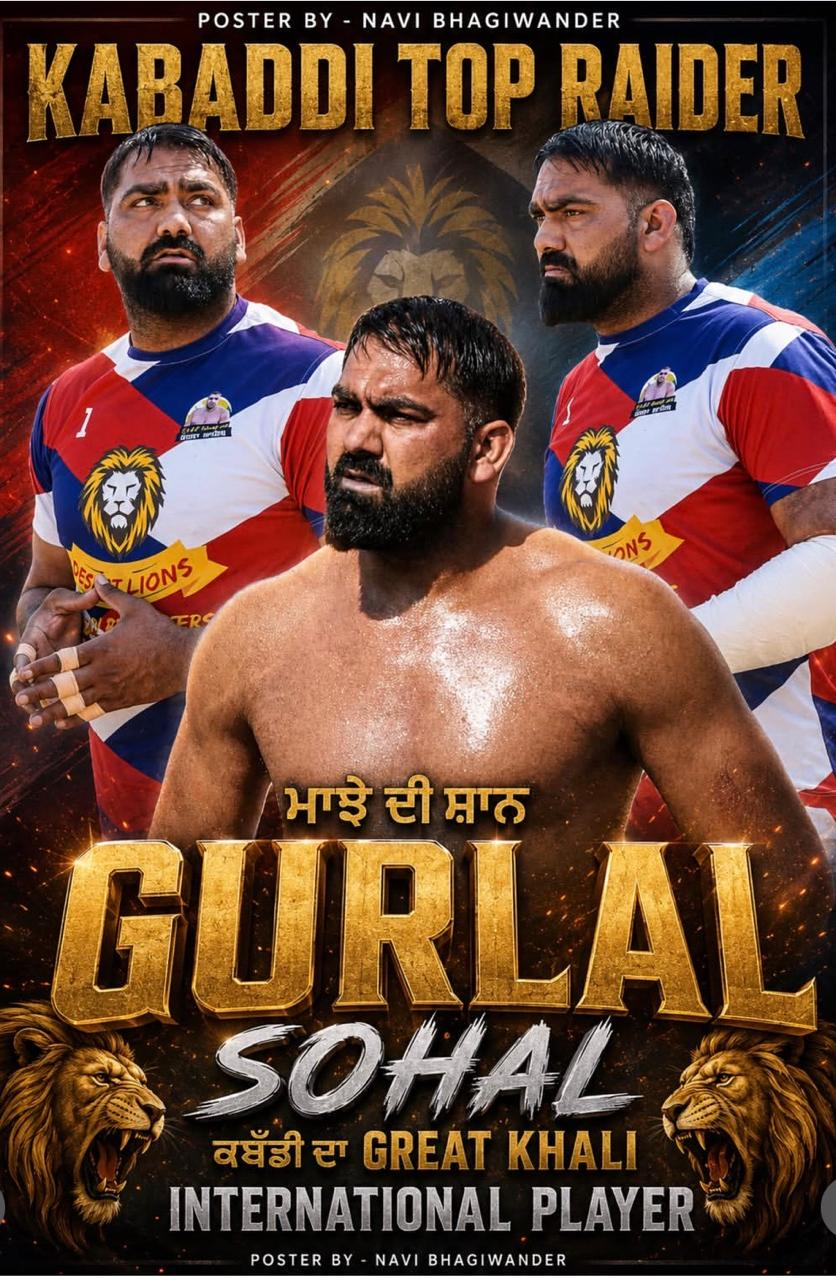
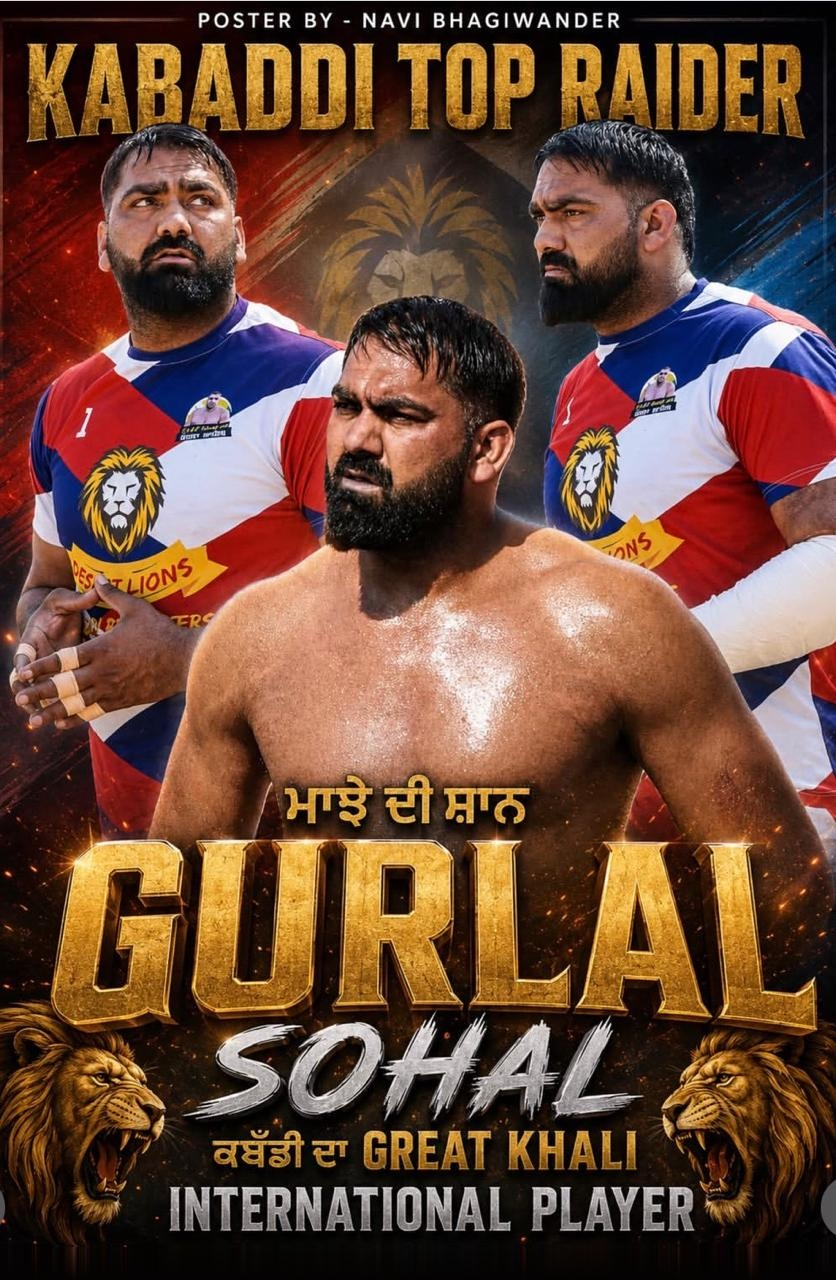
Remove POSTER BY - NAVI BHAGIWANDER attribution from poster artwork and page templates

Changed region(s): [[0.0, 0.9688, 1.0, 1.0]]

diff --git a/gallery.html b/gallery.html
@@ -380,7 +380,7 @@
               <div>
                 <span class="font-label text-xs uppercase text-[#FF6B00] font-bold block"><span class="font-gurmukhi">&#2606;&#2622;&#2589;&#2631; &#2598;&#2624; &#2616;&#2620;&#2622;&#2600;</span></span>
                 <h3 class="font-headline text-xl uppercase text-white font-bold"><span class="font-gurmukhi">&#2581;&#2604;&#2673;&#2593;&#2624; &#2598;&#2622; Great Khali</span></h3>
-                <span class="font-body text-xs text-slate-400">Navi Bhagiwander Design &bull; Jersey #1</span>
+                <span class="font-body text-xs text-slate-400">Official Key Art &bull; Jersey #1</span>
               </div>
               <span class="material-symbols-outlined text-[#FF6B00] text-[24px]">zoom_in</span>
             </div>

diff --git a/stitch_gurlal_sohal_athlete_portfolio/gallery.html b/stitch_gurlal_sohal_athlete_portfolio/gallery.html
@@ -380,7 +380,7 @@
               <div>
                 <span class="font-label text-xs uppercase text-[#FF6B00] font-bold block"><span class="font-gurmukhi">&#2606;&#2622;&#2589;&#2631; &#2598;&#2624; &#2616;&#2620;&#2622;&#2600;</span></span>
                 <h3 class="font-headline text-xl uppercase text-white font-bold"><span class="font-gurmukhi">&#2581;&#2604;&#2673;&#2593;&#2624; &#2598;&#2622; Great Khali</span></h3>
-                <span class="font-body text-xs text-slate-400">Navi Bhagiwander Design &bull; Jersey #1</span>
+                <span class="font-body text-xs text-slate-400">Official Key Art &bull; Jersey #1</span>
               </div>
               <span class="material-symbols-outlined text-[#FF6B00] text-[24px]">zoom_in</span>
             </div>

diff --git a/admin.html b/admin.html
@@ -418,7 +418,7 @@
             <img src="/public/images/gurlal_sohal_great_khali_majhe_di_shaan.jpg" class="w-full h-full object-cover">
           </div>
           <h4 class="font-headline text-lg text-white uppercase font-bold">Great Khali / Majhe Di Shaan Poster</h4>
-          <span class="text-xs font-mono text-slate-400">Navi Bhagiwander Design</span>
+          <span class="text-xs font-mono text-slate-400">Official Key Art</span>
         </div>
       </div>
     </div>

diff --git a/stitch_gurlal_sohal_athlete_portfolio/admin.html b/stitch_gurlal_sohal_athlete_portfolio/admin.html
@@ -418,7 +418,7 @@
             <img src="/public/images/gurlal_sohal_great_khali_majhe_di_shaan.jpg" class="w-full h-full object-cover">
           </div>
           <h4 class="font-headline text-lg text-white uppercase font-bold">Great Khali / Majhe Di Shaan Poster</h4>
-          <span class="text-xs font-mono text-slate-400">Navi Bhagiwander Design</span>
+          <span class="text-xs font-mono text-slate-400">Official Key Art</span>
         </div>
       </div>
     </div>

diff --git a/about.html b/about.html
@@ -427,7 +427,7 @@
               </div>
             </div>
             <div class="flex items-center justify-between text-xs font-mono text-slate-400 px-1">
-              <span>Navi Bhagiwander Design</span>
+              <span>Official Athlete Key Art</span>
               <button type="button" onclick="openGalleryIndex(2)" class="text-blue-400 hover:underline cursor-pointer">Inspect Lightbox</button>
             </div>
           </div>

diff --git a/stitch_gurlal_sohal_athlete_portfolio/about.html b/stitch_gurlal_sohal_athlete_portfolio/about.html
@@ -427,7 +427,7 @@
               </div>
             </div>
             <div class="flex items-center justify-between text-xs font-mono text-slate-400 px-1">
-              <span>Navi Bhagiwander Design</span>
+              <span>Official Athlete Key Art</span>
               <button type="button" onclick="openGalleryIndex(2)" class="text-blue-400 hover:underline cursor-pointer">Inspect Lightbox</button>
             </div>
           </div>
